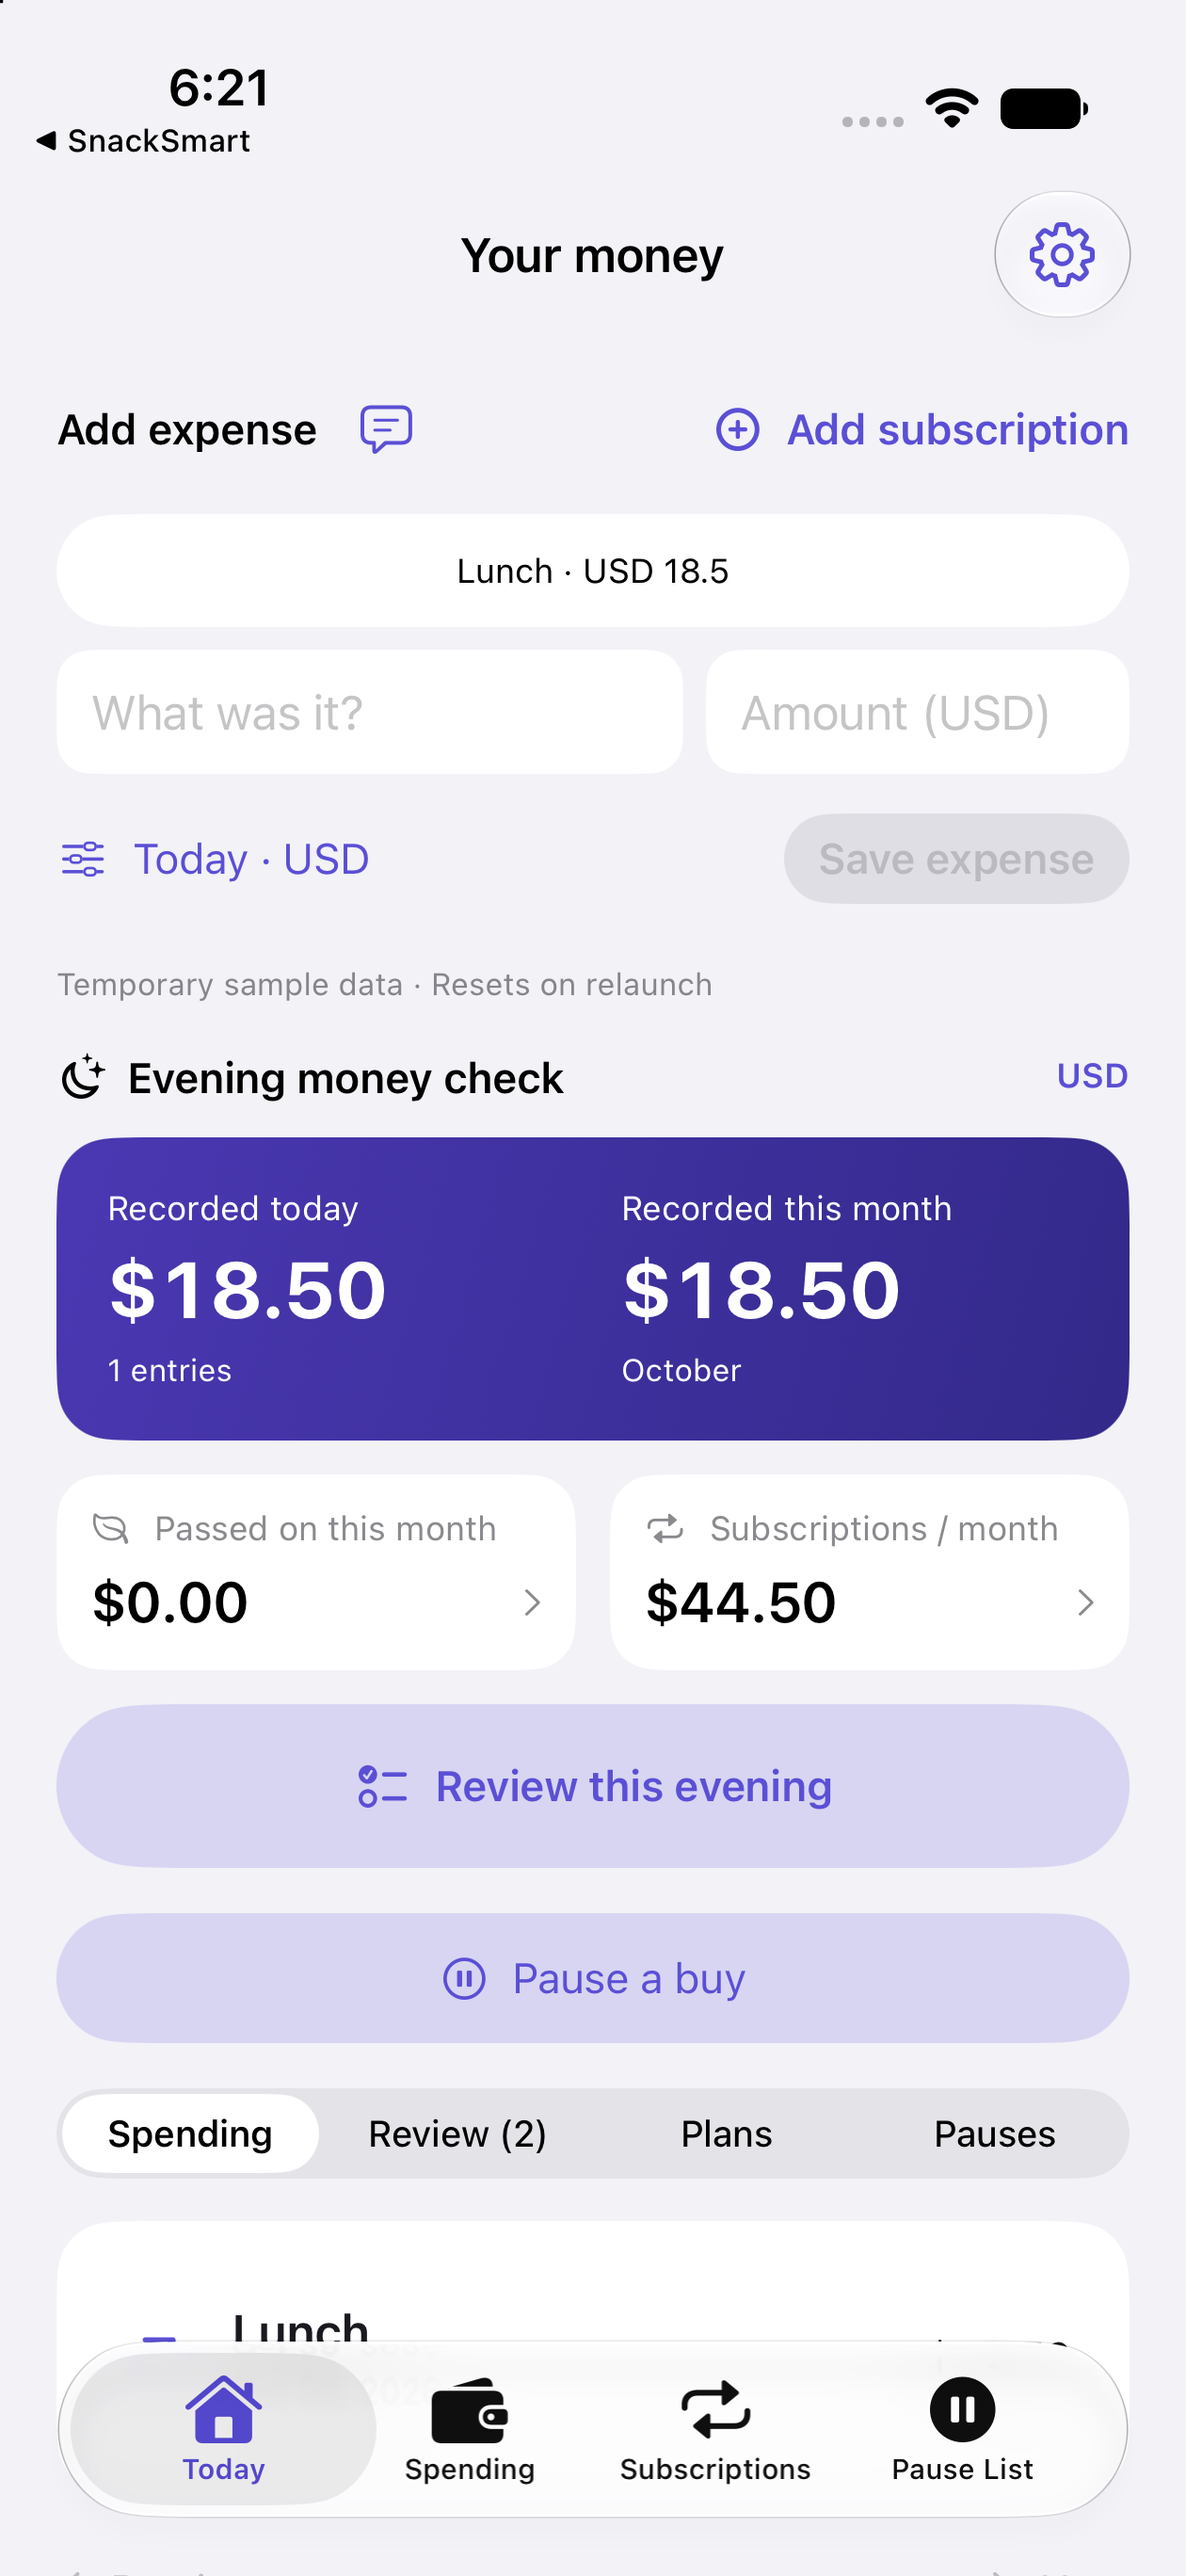
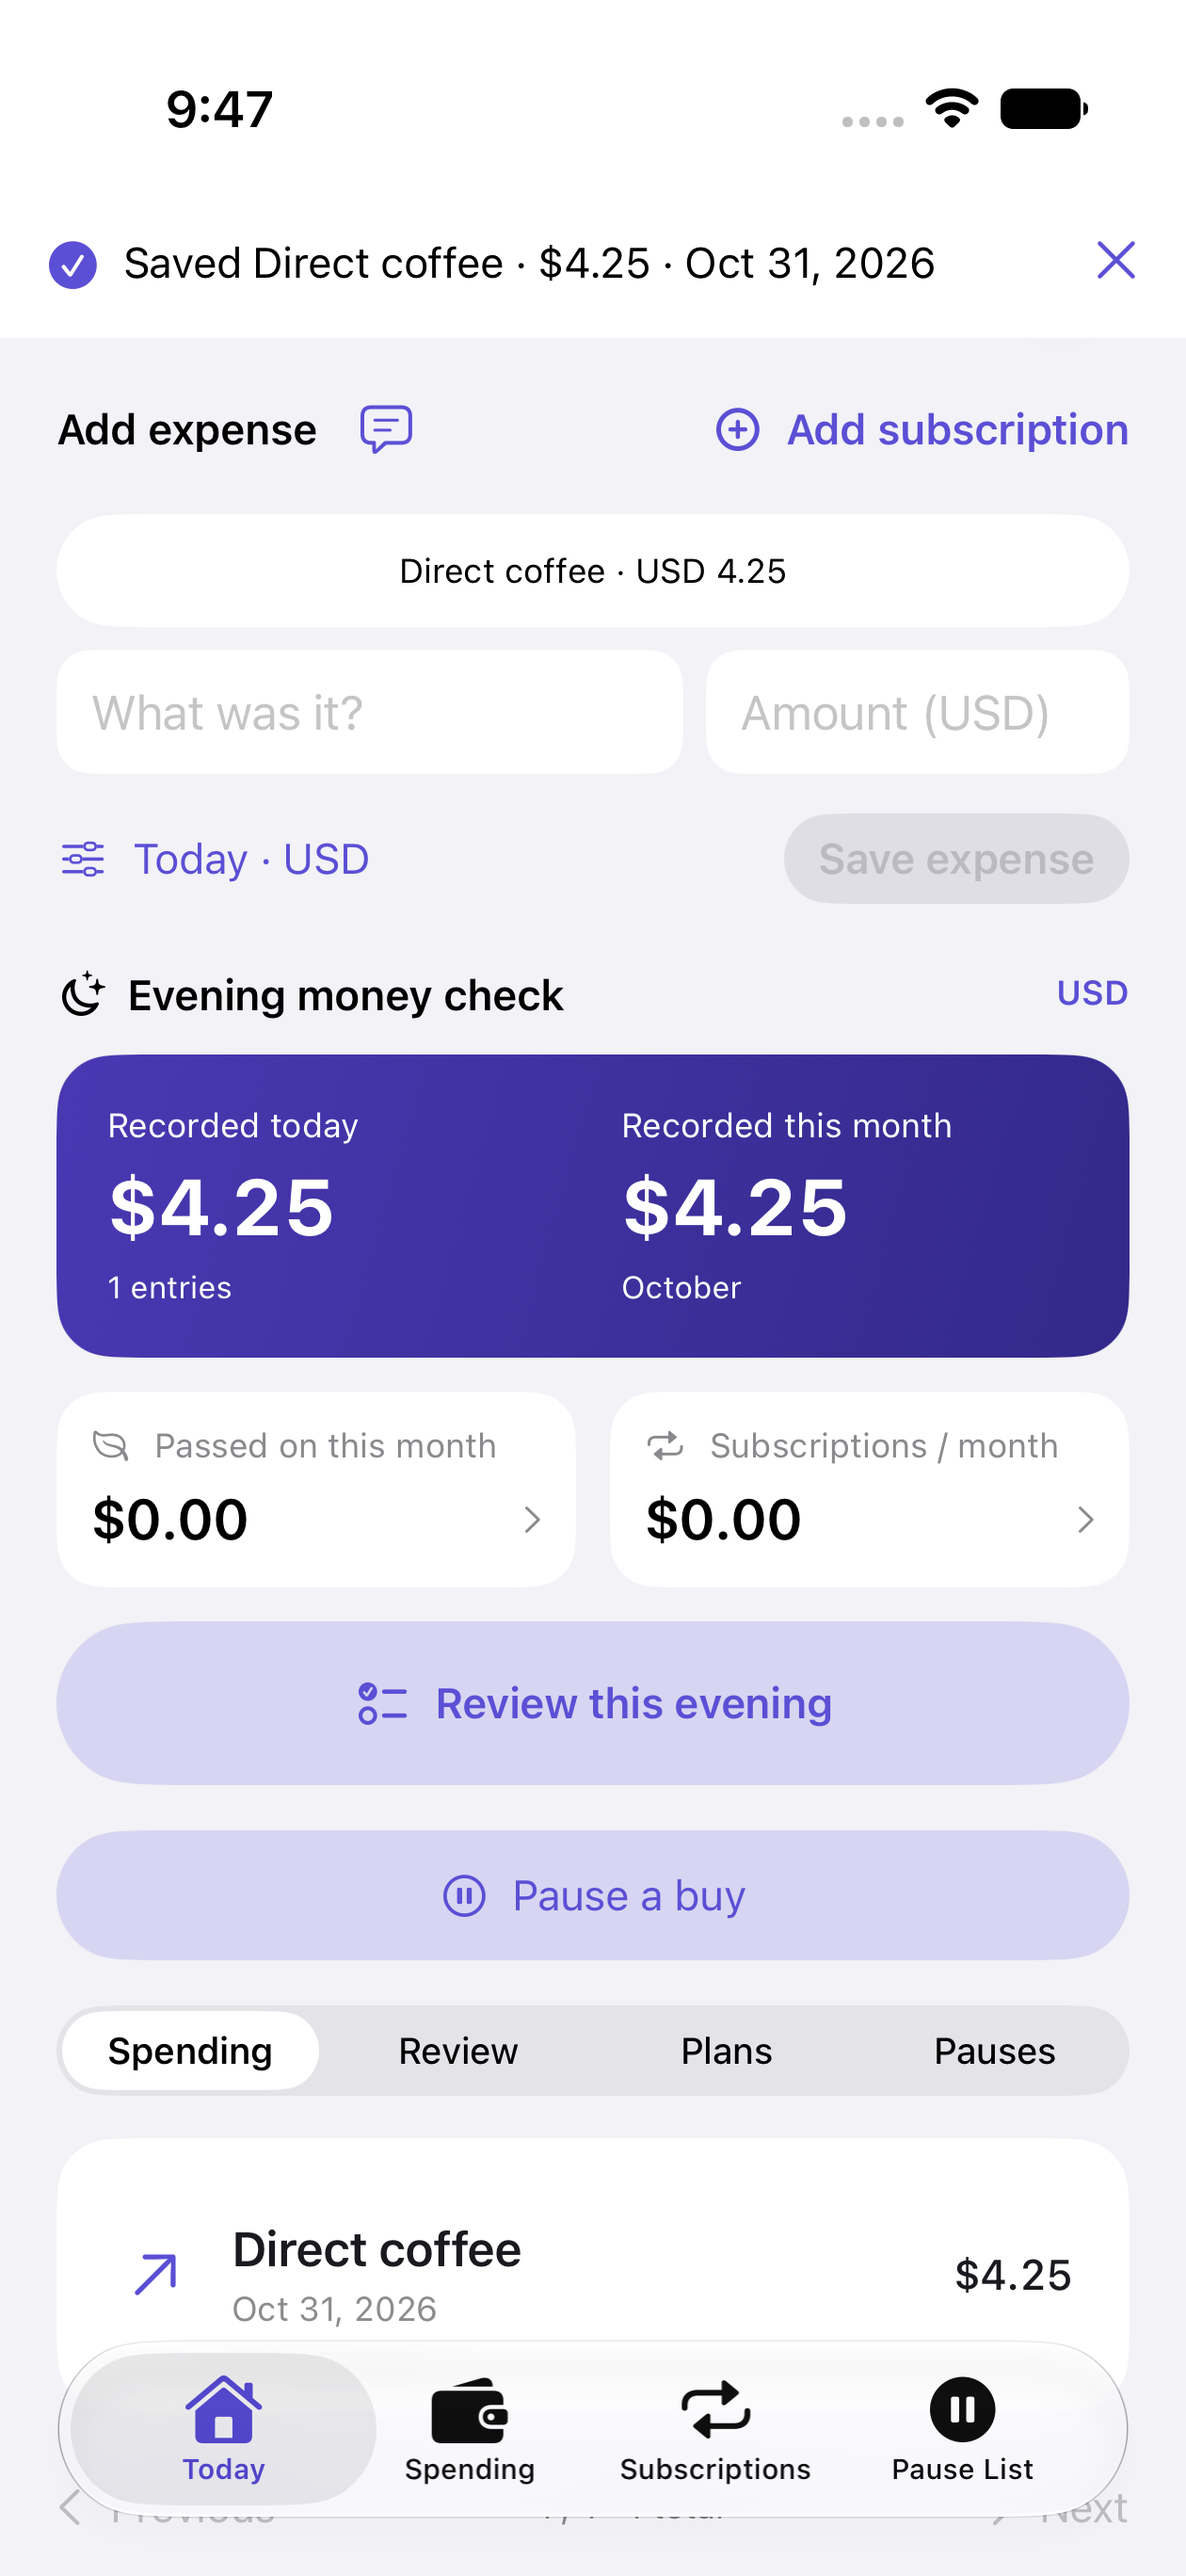
Refresh ClarityFlow screenshots for 1.0.9

diff --git a/index.html b/index.html
@@ -36,7 +36,7 @@ Make room to pause.</h1>
 <a class="button primary" href="https://apps.apple.com/app/id6759080543">View on App Store ↗</a>
 <a class="button secondary" href="#screens">Explore the app</a>
 </div>
-<p class="release">Screens from the latest tested 1.0.8 release candidate using demonstration or empty records. The current App Store version may differ.</p>
+<p class="release">Screens from the tested 1.0.9 release candidate using demonstration or empty records. The current App Store version may differ.</p>
 </div>
 <div class="product" id="screens" data-gallery>
 <a class="gallery-link" href="/clarityflow-website/assets/screenshots-current/01.png" target="_blank" rel="noopener noreferrer" aria-label="Open full-size ClarityFlow screenshot">
@@ -47,6 +47,7 @@ Make room to pause.</h1>
 <button type="button" data-image="/clarityflow-website/assets/screenshots-current/01.png" data-alt="ClarityFlow: Today" data-caption="Today — Spending and subscriptions, close at hand." aria-pressed="true">Today</button>
 <button type="button" data-image="/clarityflow-website/assets/screenshots-current/02.png" data-alt="ClarityFlow: Review a spending note" data-caption="Review a spending note — Check an editable expense draft before saving." aria-pressed="false">Review a spending note</button>
 <button type="button" data-image="/clarityflow-website/assets/screenshots-current/03.png" data-alt="ClarityFlow: Evening review" data-caption="Evening review — See recorded spending and what needs attention." aria-pressed="false">Evening review</button>
+<button type="button" data-image="/clarityflow-website/assets/screenshots-current/04.png" data-alt="ClarityFlow: Subscriptions" data-caption="Subscriptions — Review upcoming charges and monthly equivalents." aria-pressed="false">Subscriptions</button>
 </div>
 </div>
 </section>
